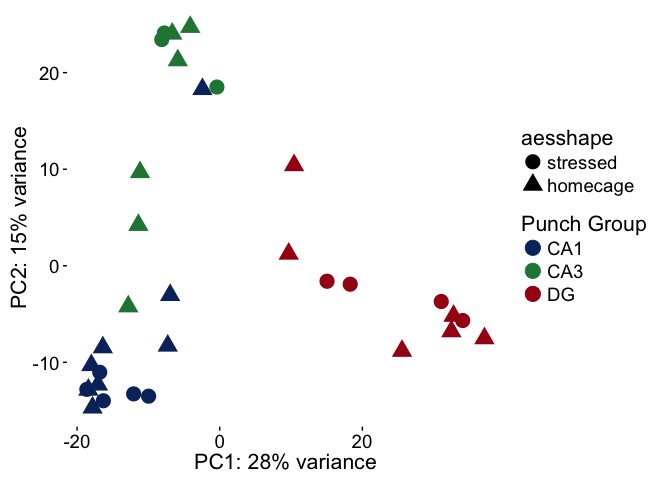
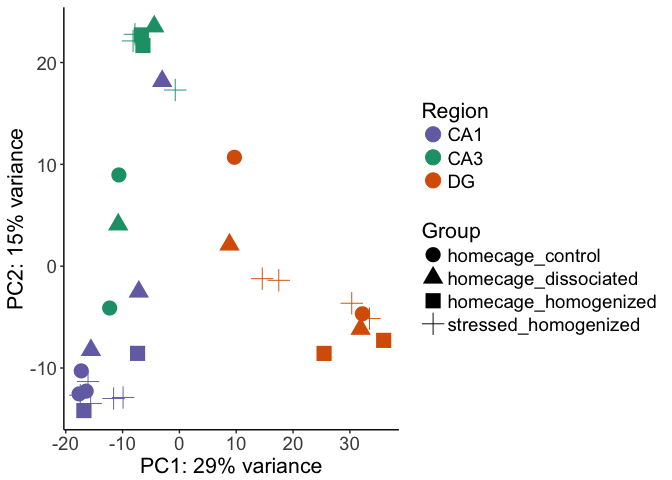
all three

diff --git a/markdownfiles/03_DissociationStressTest.md b/markdownfiles/03_DissociationStressTest.md
@@ -1,131 +1,8 @@
-Methods for Dorsal Hippocampal Gene Expression Profiling
---------------------------------------------------------
+All together now
+----------------
 
-#### Part 1: Examining the influence of dissasociation on gene expression in the CA1, CA3, and DG
+Combining the two previous analyses
 
-![](../figures/03_dissociationstresstest/DifferentialGeneExpressionAnalysis-1.png)
+PCA
 
-This PCA gives an overview of the variability between samples using the
-a large matrix of log transformed gene expression data. You can see that
-the bigges difference is between DG punches and the CA1 and CA3 punches.
-CA1 and CA3 samples have similar transcriptomes. The homogenized CA1
-samples have the most similar transcriptonal profiles as evidenced by
-their tight clustering.
-
-![](../figures/03_dissociationstresstest/PCA-1.png)![](../figures/03_dissociationstresstest/PCA-2.png)
-
-This Venn Diagram shows the number of differentially expressed by
-contrast described above each oval. The most number of genes are
-differntially expressed between DG and the CAs (nearly 1000) wheras only
-about 200 were differntailly regulated as a result of of technical
-maniplulation comparing homogenized and dissociated samples.
-
-The first is with padj values. The second with p values
-
-![](../figures/03_dissociationstresstest/VennDiagram1-1.png)
-
-![](../figures/03_dissociationstresstest/VennDiagram2-1.png)
-
-Here, the goal is the analyze the distribution of pvalues to see if they
-are randomly distributed or if that is a tendency towards and increase
-or decrease of low pvalues. There, I'm showing the pval and adjusted
-pvale (padj) for all for two-way comparision.
-
-    head(rldpvals)
-
-    ##               pvalPunchCA1DG padjPunchCA1DG pvalPunchCA3DG padjPunchCA3DG
-    ## 0610007P14Rik      0.4379056      1.0000000     0.30445691      0.9181681
-    ## 0610009B22Rik      0.5181528      1.0000000     0.08780957      0.5721286
-    ## 0610009L18Rik      0.9850306      1.0000000     0.69597687      1.0000000
-    ## 0610009O20Rik      0.8413827      1.0000000     0.46609426      1.0000000
-    ## 0610010F05Rik      0.3899734      0.9958327     0.88163051      1.0000000
-    ## 0610010K14Rik      0.5136582      1.0000000     0.46035764      1.0000000
-    ##               pvalPunchCA1CA3 padjPunchCA1CA3 pvalGrouphomecagestressed
-    ## 0610007P14Rik       0.7271586       1.0000000                 0.6021758
-    ## 0610009B22Rik       0.2157030       0.9859284                 0.8163708
-    ## 0610009L18Rik       0.6627063       1.0000000                 0.5685804
-    ## 0610009O20Rik       0.5548065       1.0000000                 0.8392834
-    ## 0610010F05Rik       0.2967238       1.0000000                 0.4453358
-    ## 0610010K14Rik       0.8768591       1.0000000                 0.9522420
-    ##               padjGrouphomecagestressed
-    ## 0610007P14Rik                 0.9999077
-    ## 0610009B22Rik                 0.9999077
-    ## 0610009L18Rik                 0.9999077
-    ## 0610009O20Rik                 0.9999077
-    ## 0610010F05Rik                 0.9999077
-    ## 0610010K14Rik                 0.9999077
-
-    rldpvalslong <- rldpvals
-    rldpvalslong$gene <- row.names(rldpvalslong) 
-    rldpvalslong <- melt(rldpvalslong, id=c("gene"))
-    head(rldpvalslong)
-
-    ##            gene       variable     value
-    ## 1 0610007P14Rik pvalPunchCA1DG 0.4379056
-    ## 2 0610009B22Rik pvalPunchCA1DG 0.5181528
-    ## 3 0610009L18Rik pvalPunchCA1DG 0.9850306
-    ## 4 0610009O20Rik pvalPunchCA1DG 0.8413827
-    ## 5 0610010F05Rik pvalPunchCA1DG 0.3899734
-    ## 6 0610010K14Rik pvalPunchCA1DG 0.5136582
-
-    qplot(value, data=rldpvalslong, geom="histogram") + 
-      facet_grid( ~ variable) +
-      scale_y_log10()
-
-    ## `stat_bin()` using `bins = 30`. Pick better value with `binwidth`.
-
-    ## Warning: Removed 128 rows containing non-finite values (stat_bin).
-
-    ## Warning: Stacking not well defined when ymin != 0
-
-![](../figures/03_dissociationstresstest/pvaluedistribution-1.png)
-
-I'm not really happy with these two heat maps. Here's how I created
-them. Top heatmap: subset the data to give only the gene with an
-adjusted p value &lt; 0.05 for the homogenized vs dissociated
-comparisonany two-way comparsion. Bottom heatmap: subset the data to
-give only the gene with an adjusted p value &lt; 0.05 for two way brain
-region comparision (CA1 vs DG, CA3, vs DG, or CA1 vs DG)
-
-Here, you can see that the differences between samples is not as clear
-cut for all comparisions. What other mechanisms would be useful for
-subseting the data to identify genes of interest?
-
-![](../figures/03_dissociationstresstest/Heatmap100DEgenes-1.png)
-
-This is a data validation check plot. Here, I'm showing how many
-millions of reads were present in each sample. On average, each sample
-had 5 million reads, but the range was from 0.8 to 10 millino reads.
-
-    FALSE [1] 22485    32
-
-    FALSE  100-CA1-1  100-CA1-2  100-CA1-3  100-CA3-1  100-CA3-4   100-DG-2 
-    FALSE   1.136597   3.311998   1.114747   0.966391   1.205348   0.658410 
-    FALSE   100-DG-3  101-CA1-1  101-CA1-2  101-CA1-3  101-CA3-1  101-CA3-4 
-    FALSE   3.055740   2.668415   0.072040   0.154427   1.361076   0.639942 
-    FALSE   101-DG-3   101-DG-4 143B-CA1-1  143B-DG-1 144B-CA1-1 144B-CA3-1 
-    FALSE   0.036498   0.300618   0.874614   1.019113   1.275137   0.506698 
-    FALSE 145B-CA1-1  145B-DG-1 146B-CA1-2 146B-CA3-2  146B-DG-2  147-CA1-4 
-    FALSE   1.034066   0.720798   0.506014   1.056001   0.055549   0.080721 
-    FALSE  147-CA3-4   147-DG-4  148-CA1-2  148-CA3-2   148-DG-2 148B-CA1-4 
-    FALSE   0.344588   0.069648   0.938866   1.148136   1.067185   0.185637 
-    FALSE 148B-CA3-4  148B-DG-4 
-    FALSE   1.724144   0.398258
-
-    FALSE 
-    FALSE    0    1    2    3    4    5    6    7    8    9   10   11   12   13   14 
-    FALSE 4907  391  378  280  231  208  176  153  117  127  123   99  116   95  102 
-    FALSE   15   16   17   18   19   20   21   22   23   24   25   26   27   28   29 
-    FALSE   83   73   90   82  102   57   76   68   78   60   68   70   50   47   49
-
-These next graphs show the correlation between samples of CA1, CA3, and
-DG.
-
-![](../figures/03_dissociationstresstest/scatterplots-1.png)![](../figures/03_dissociationstresstest/scatterplots-2.png)
-
-This next plot shows the stregnth of the correlation between samples.
-
-![](../figures/03_dissociationstresstest/correlationmatrix-1.png)
-
-Save files for GO analysis. A total of 217 DEGs with unadjusted p-value
-&lt; 0.1 were input into the GO anlaysis.
+![](../figures/03_dissociationstresstest/PCA-1.png)
